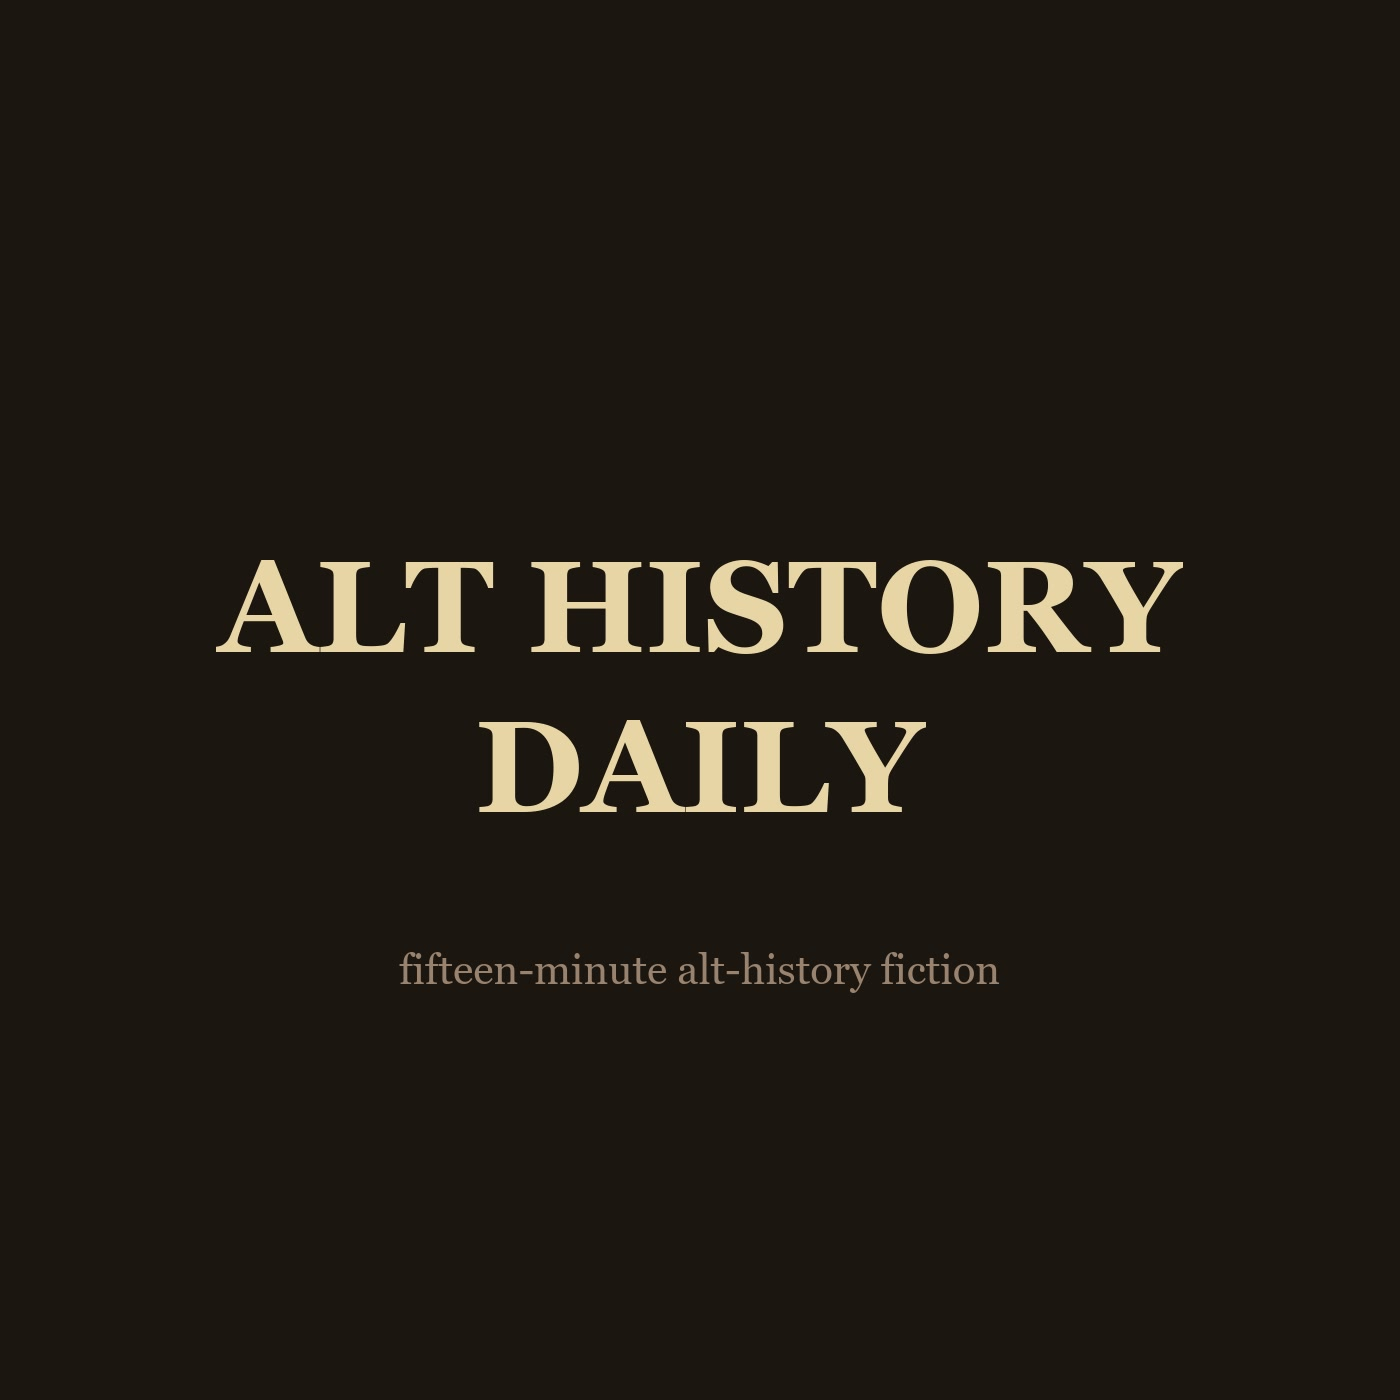
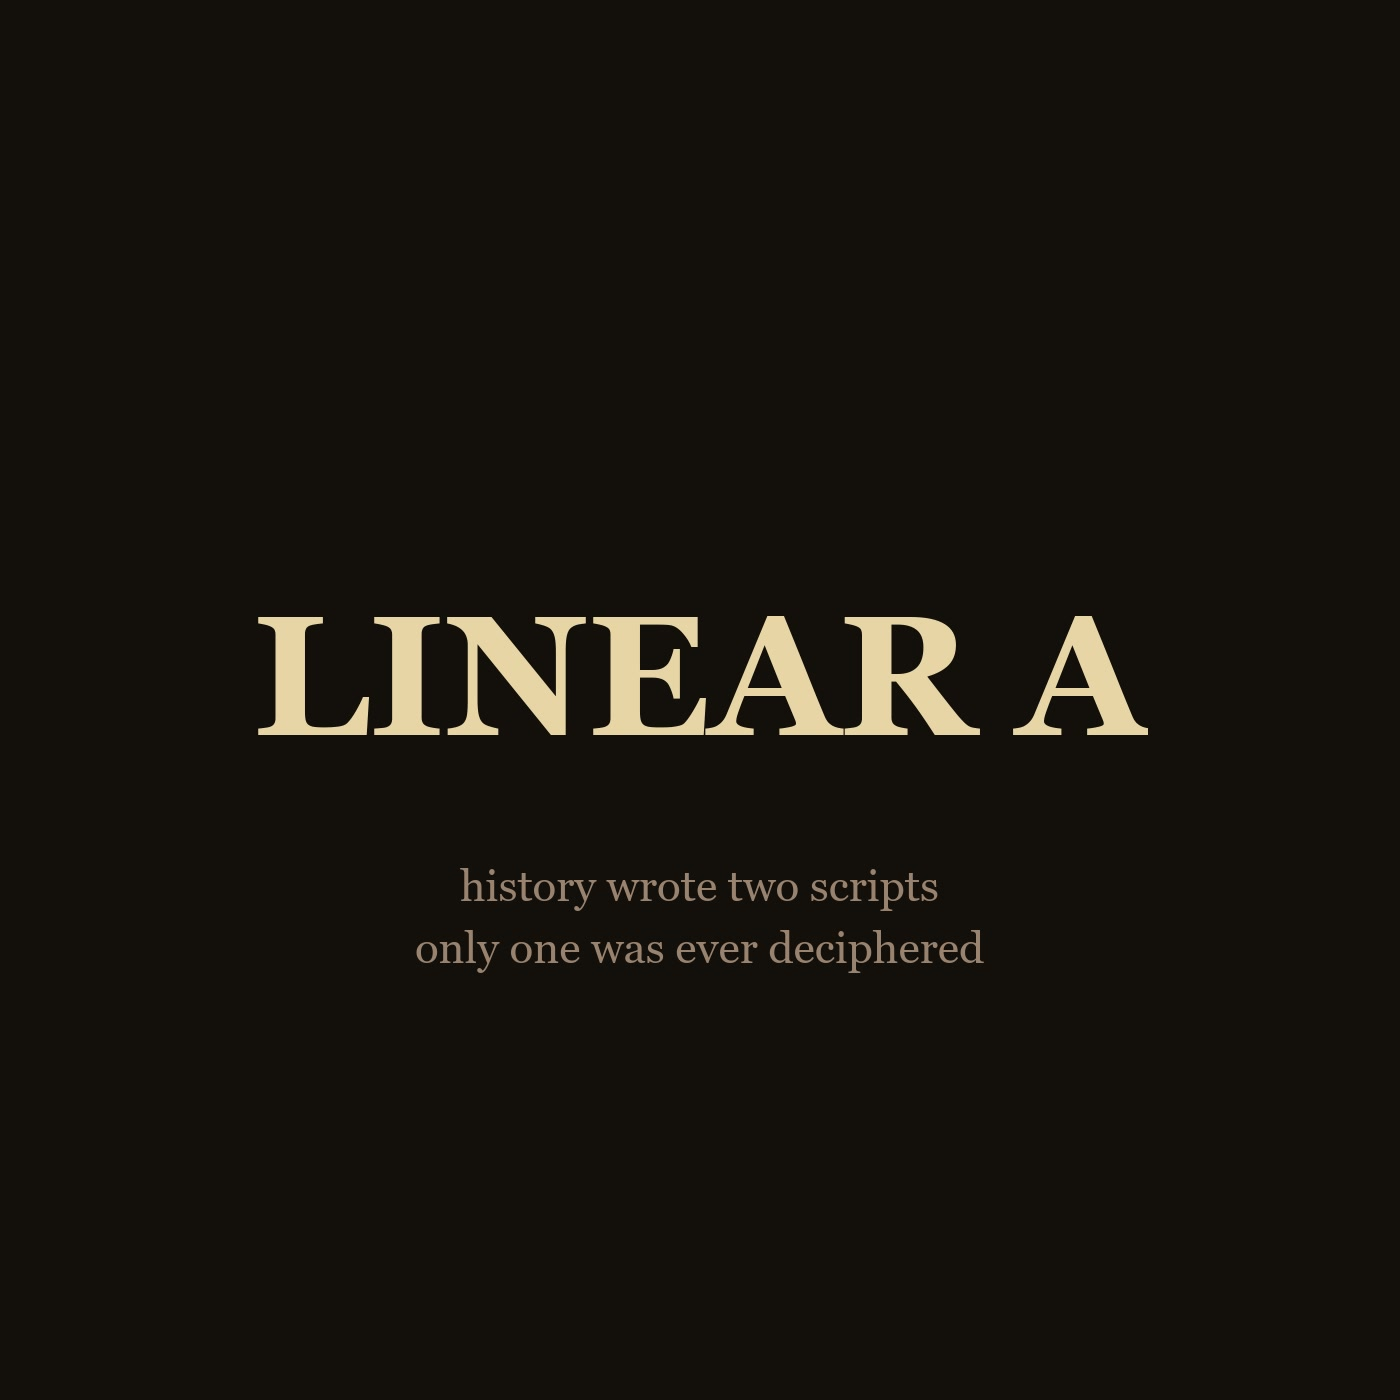
rebrand: Linear A - new theme audio in episodes, cover, feed identity, landing page

Changed region(s): [[0.1536, 0.3993, 0.86, 0.5836], [0.2764, 0.6143, 0.7064, 0.7064]]

diff --git a/index.html b/index.html
@@ -2,13 +2,14 @@
 <html lang="en">
 <head>
 <meta charset="utf-8">
-<title>Alt History Daily</title>
+<title>Linear A</title>
 <meta name="viewport" content="width=device-width,initial-scale=1">
-<style>body{font-family:Georgia,serif;max-width:38em;margin:6em auto;padding:0 1.5em;line-height:1.6;color:#222}h1{font-size:2.4em;margin-bottom:.1em}p{font-size:1.1em}a{color:#700}</style>
+<style>body{font-family:Georgia,serif;max-width:38em;margin:6em auto;padding:0 1.5em;line-height:1.6;color:#222}h1{font-size:2.6em;margin-bottom:.1em;letter-spacing:.04em}p{font-size:1.1em}a{color:#700}em{color:#666}</style>
 </head>
 <body>
-<h1>Alt History Daily</h1>
-<p>Fifteen-minute alt-history short fiction. One household, one document, one journey, set in a world where one historical contingency went the other way.</p>
+<h1>LINEAR A</h1>
+<p><em>History wrote two scripts. Only one was ever deciphered.</em></p>
+<p>Fifteen-minute alt-history short fiction — a single household, a single document, a single journey, set in a world where one historical contingency went the other way.</p>
 <p>Subscribe via the <a href="feed.xml">RSS feed</a>. New episodes appear when they appear.</p>
 </body>
 </html>